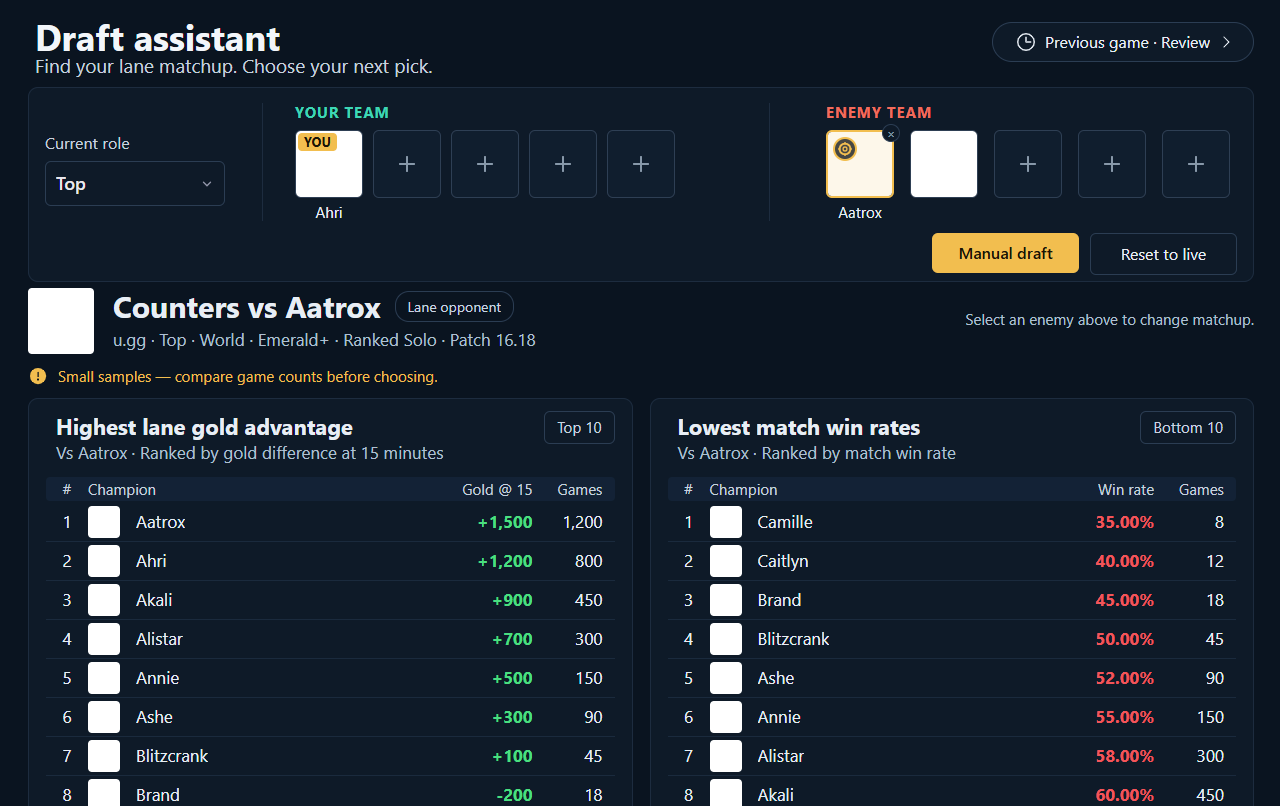
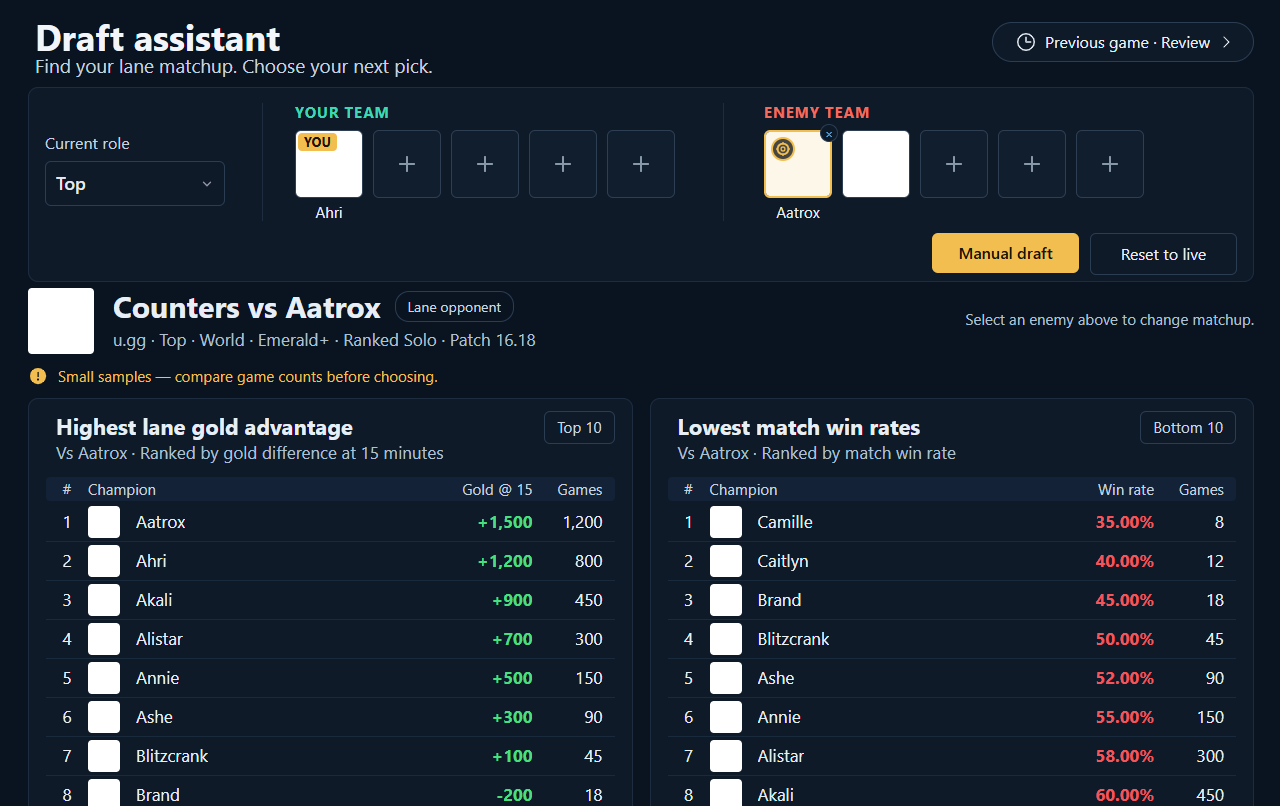
2.5.3: both teams stay on one row inside the 2.5.2 window edge
The 1px edge + 5px resize inset leave the default 1280 window a 1268px
page; the mockup team spacing needs 1275. Tighter spacing below 1540px,
pinned at 1268 and 1210 in verify-draft-ui.

Changed region(s): [[0.5938, 0.1241, 0.7812, 0.2792]]

diff --git a/desktop/ui/DraftPage.tsx b/desktop/ui/DraftPage.tsx
@@ -214,6 +214,12 @@ const DRAFT_CSS = `
    default 1280 px window), so only it moves to a row under the teams. */
 @media (max-width: 1539px) {
   .d25-teamcard { flex-wrap: wrap; row-gap: 12px; }
+  /* Tighter team spacing keeps both teams on one row down to the 1199px
+     stack: the default 1280 window gives the page only 1268px (2.5.2 edge
+     + resize inset), and the mockup spacing needs 1275. */
+  .d25-div2 { margin-left: 48px; }
+  .d25-teamblock-enemy { margin-left: 40px; }
+  .d25-slots-enemy { gap: 10px; }
   .d25-teambtns { margin-left: 0; padding-left: 0; flex: 1 1 100%; flex-direction: row; justify-content: flex-end; }
 }
 @media (max-width: 1199px) {

diff --git a/CLAUDE.md b/CLAUDE.md
@@ -1,6 +1,6 @@
 # CoachBuild — technical reference
 
-**Describes desktop 2.5.2, 2026-09-12.** `desktop/src/Directory.Build.props`'s
+**Describes desktop 2.5.3, 2026-09-12.** `desktop/src/Directory.Build.props`'s
 `<Version>` is the single source of truth for the app version (it moved there in
 2.1.0; it is no longer in the csproj). If it has moved on since this date, treat
 everything below with more skepticism the further it has fallen behind, and check

diff --git a/CHANGELOG.md b/CHANGELOG.md
@@ -1,5 +1,11 @@
 # Changelog
 
+## Desktop 2.5.3 (2026-09-12)
+
+- At the default window size both teams sit on one row again (2.5.2's new
+  window edge left the page slightly too narrow, which pushed Enemy team onto
+  a second line).
+
 ## Desktop 2.5.2 (2026-09-12)
 
 - The counter tables always show every pick (all 15 and all 10); the Show all
